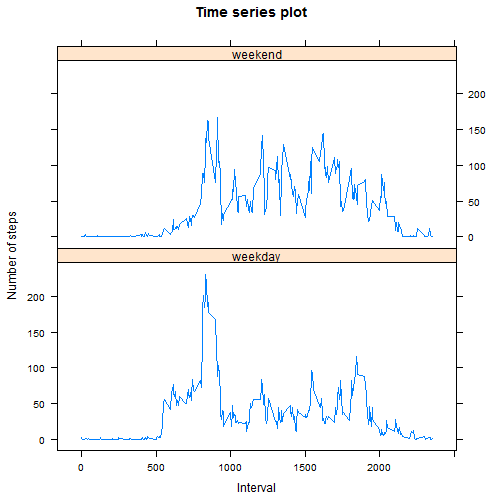
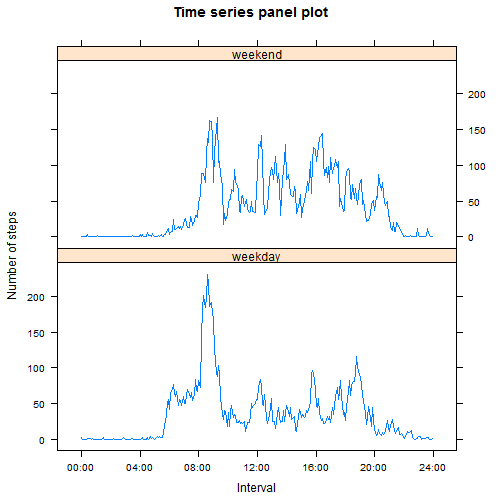
minor changes

diff --git a/PA1_template.html b/PA1_template.html
@@ -3,7 +3,7 @@
 <head>
 <meta http-equiv="Content-Type" content="text/html; charset=utf-8"/>
 
-<title>Loading and preprocessing the data</title>
+<title>Start of assignment</title>
 
 <script type="text/javascript">
 window.onload = function() {
@@ -201,6 +201,8 @@ hr {
 </head>
 
 <body>
+<h4>Start of assignment</h4>
+
 <h2>Loading and preprocessing the data</h2>
 
 <p>Set the working directory to the cloned GitHub repo &#39;RepData_PeerAssessment1&#39;</p>
@@ -280,6 +282,10 @@ my_avg &lt;- summarize(by_interval, mean(Steps))
 names(my_avg) &lt;- c(&quot;Interval&quot;, &quot;Avg_Steps&quot;)
 </code></pre>
 
+<p>It is noted that the &#39;interval&#39; is not a continuous series. For example, after &#39;55&#39;, instead of &#39;60&#39; at 60 minutes, &#39;100&#39; is recorded (to represent 01:00). </p>
+
+<p>Approach: Convert the &#39;5-minute intervals&#39; to a linear scale (0 to 287) to represent 288 x &#39;5-minute intervals&#39; in 24-hours, and then overlay the x-axis with customised time labels</p>
+
 <p>Make a time series plot of the 5-minute interval (x-axis) and the average no. of steps taken, averaged across all days (y-axis)</p>
 
 <pre><code class="r">my_interval &lt;- c(0:287)
@@ -288,11 +294,11 @@ names(my_df) &lt;- c(&quot;Interval&quot;, &quot;Avg_Steps&quot;, &quot;My_Inter
 
 with(my_df, plot(My_Interval, Avg_Steps, type = &quot;l&quot;, xaxt = &quot;n&quot;, col = &quot;brown&quot;, main = &quot;Time series plot&quot;, xlab = &quot;5-minute Interval&quot;, ylab = &quot;Average no. of steps taken, across all days&quot;))
 
-my_xlab &lt;- c(&quot;00:00&quot;, &quot;04:00&quot;, &quot;08:00&quot;, &quot;12:00&quot;, &quot;16:00&quot;, &quot;20:00&quot;)
-axis(1, at=c(0, 48, 96, 144, 192, 240), labels = my_xlab)
+my_xlab &lt;- c(&quot;00:00&quot;, &quot;04:00&quot;, &quot;08:00&quot;, &quot;12:00&quot;, &quot;16:00&quot;, &quot;20:00&quot;, &quot;24:00&quot;)
+axis(1, at=c(0, 48, 96, 144, 192, 240, 288), labels = my_xlab)
 </code></pre>
 
[2 lines of base64/hex data omitted]
 
 <p>Calculate which 5-minute interval, on average across all the days in the dataset, contains the maximum no. of steps</p>
 
@@ -401,14 +407,23 @@ names(new_avg) &lt;- c(&quot;Day_Type&quot;, &quot;Interval&quot;, &quot;Avg_Ste
 <pre><code class="r">library(lattice)
 </code></pre>
 
+<p>Approach: Similar to previous &#39;time series plot&#39;, convert the &#39;5-minute intervals&#39; to a linear scale (0 to 287) to represent 288 x &#39;5-minute intervals&#39; in 24-hours, and then overlay the x-axis with customised time labels</p>
+
 <p>Make a panel plot containing a time series plot of the 5-minute interval (x-axis) and the average no. of steps taken, averaged across all weekday days or weekend days (y-axis)</p>
 
-<pre><code class="r">xyplot(Avg_Steps ~ Interval | Day_Type, data = new_avg, layout = c(1, 2), type = &quot;l&quot;, main = &quot;Time series plot&quot;, xlab = &quot;Interval&quot;, ylab = &quot;Number of steps&quot;)
+<pre><code class="r">my_interval2 &lt;- rep(c(0:287))
+my_df2 &lt;- cbind(new_avg, my_interval2)
+names(my_df2) &lt;- c(&quot;Day_Type&quot;, &quot;Interval&quot;, &quot;Avg_Steps&quot;, &quot;My_Interval&quot;)
+
+x_at &lt;- c(0, 48, 96, 144, 192, 240, 288)
+my_xlab &lt;- c(&quot;00:00&quot;, &quot;04:00&quot;, &quot;08:00&quot;, &quot;12:00&quot;, &quot;16:00&quot;, &quot;20:00&quot;, &quot;24:00&quot;)
+
+xyplot(Avg_Steps ~ My_Interval | Day_Type, data = my_df2, layout = c(1, 2), type = &quot;l&quot;, main = &quot;Time series panel plot&quot;, xlab = &quot;Interval&quot;, ylab = &quot;Number of steps&quot;, scales = list(x = list(at = x_at, labels = my_xlab)))
 </code></pre>
 
[2 lines of base64/hex data omitted]
 
-<h5>End of assignment</h5>
+<h4>End of assignment</h4>
 
 </body>
 

diff --git a/PA1_template.md b/PA1_template.md
@@ -6,6 +6,9 @@ output:
 ---
 
 
+#### Start of assignment
+
+
 ## Loading and preprocessing the data
 
 Set the working directory to the cloned GitHub repo 'RepData_PeerAssessment1'
@@ -122,6 +125,11 @@ names(my_avg) <- c("Interval", "Avg_Steps")
 ```
 
 
+It is noted that the 'interval' is not a continuous series. For example, after '55', instead of '60' at 60 minutes, '100' is recorded (to represent 01:00). 
+
+Approach: Convert the '5-minute intervals' to a linear scale (0 to 287) to represent 288 x '5-minute intervals' in 24-hours, and then overlay the x-axis with customised time labels
+
+
 Make a time series plot of the 5-minute interval (x-axis) and the average no. of steps taken, averaged across all days (y-axis)
 
 
@@ -133,8 +141,8 @@ names(my_df) <- c("Interval", "Avg_Steps", "My_Interval")
 
 with(my_df, plot(My_Interval, Avg_Steps, type = "l", xaxt = "n", col = "brown", main = "Time series plot", xlab = "5-minute Interval", ylab = "Average no. of steps taken, across all days"))
 
-my_xlab <- c("00:00", "04:00", "08:00", "12:00", "16:00", "20:00")
-axis(1, at=c(0, 48, 96, 144, 192, 240), labels = my_xlab)
+my_xlab <- c("00:00", "04:00", "08:00", "12:00", "16:00", "20:00", "24:00")
+axis(1, at=c(0, 48, 96, 144, 192, 240, 288), labels = my_xlab)
 ```
 
 ![plot of chunk unnamed-chunk-9](figure/unnamed-chunk-9-1.png) 
@@ -295,16 +303,26 @@ library(lattice)
 ```
 
 
+Approach: Similar to previous 'time series plot', convert the '5-minute intervals' to a linear scale (0 to 287) to represent 288 x '5-minute intervals' in 24-hours, and then overlay the x-axis with customised time labels
+
+
 Make a panel plot containing a time series plot of the 5-minute interval (x-axis) and the average no. of steps taken, averaged across all weekday days or weekend days (y-axis)
 
 
 
 ```r
-xyplot(Avg_Steps ~ Interval | Day_Type, data = new_avg, layout = c(1, 2), type = "l", main = "Time series plot", xlab = "Interval", ylab = "Number of steps")
+my_interval2 <- rep(c(0:287))
+my_df2 <- cbind(new_avg, my_interval2)
+names(my_df2) <- c("Day_Type", "Interval", "Avg_Steps", "My_Interval")
+
+x_at <- c(0, 48, 96, 144, 192, 240, 288)
+my_xlab <- c("00:00", "04:00", "08:00", "12:00", "16:00", "20:00", "24:00")
+
+xyplot(Avg_Steps ~ My_Interval | Day_Type, data = my_df2, layout = c(1, 2), type = "l", main = "Time series panel plot", xlab = "Interval", ylab = "Number of steps", scales = list(x = list(at = x_at, labels = my_xlab)))
 ```
 
 ![plot of chunk unnamed-chunk-20](figure/unnamed-chunk-20-1.png) 
 
 
 
-##### End of assignment
+#### End of assignment
